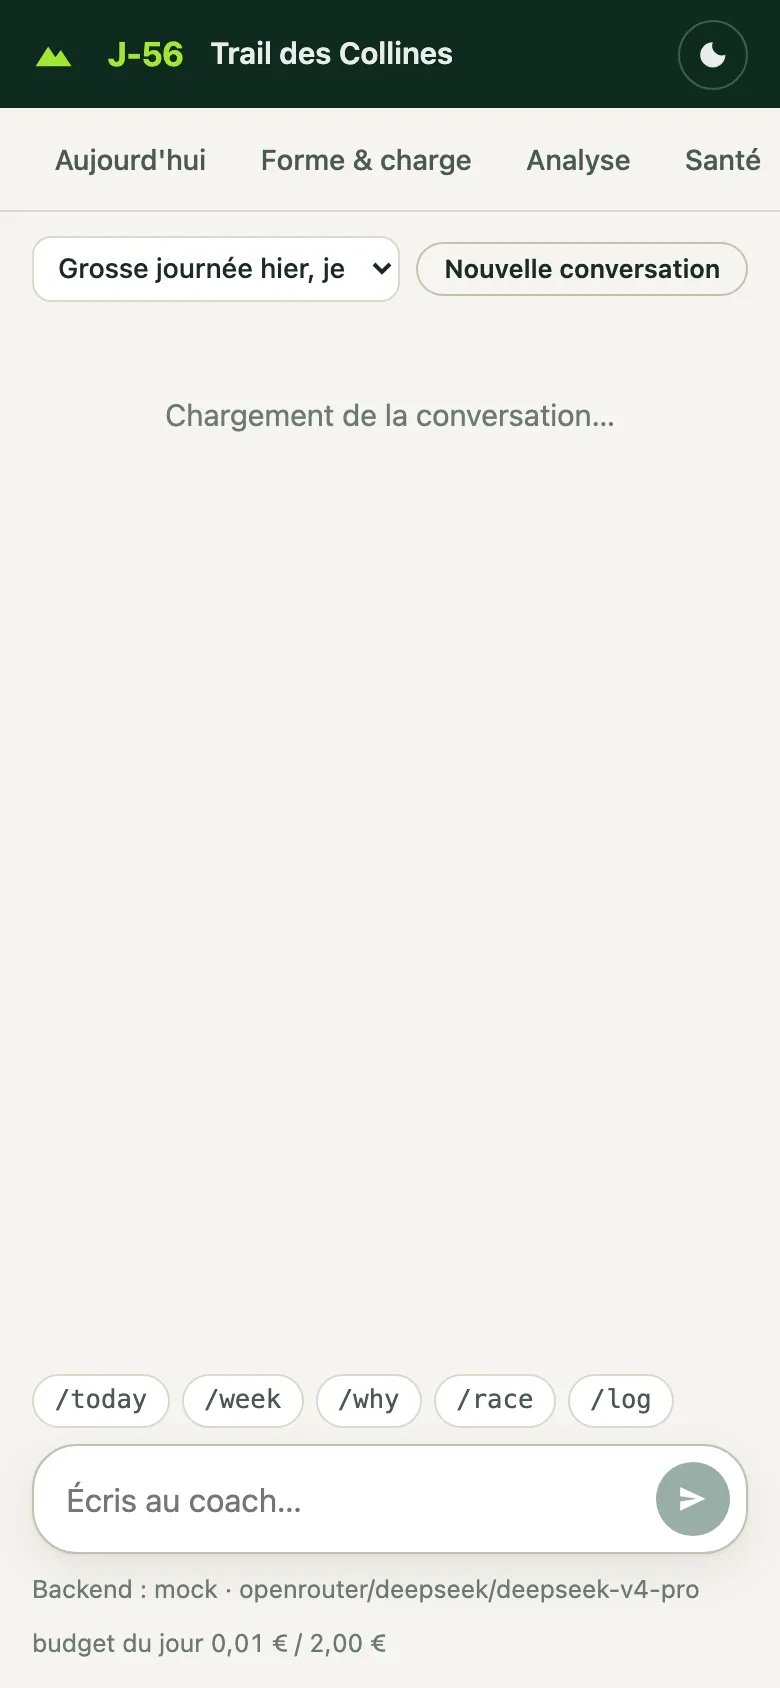
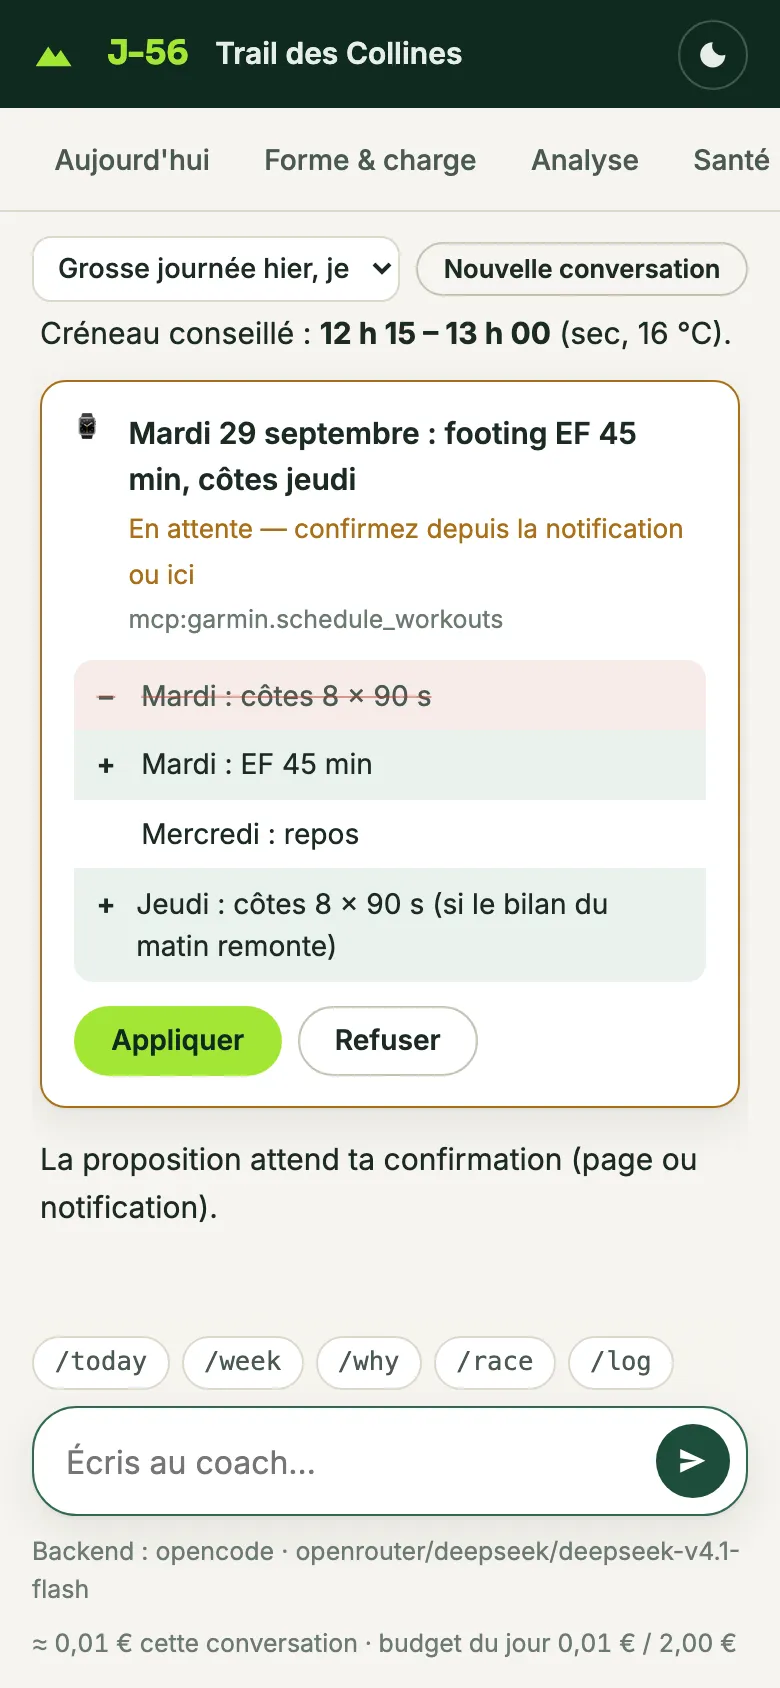
chat : modèle OpenRouter par défaut deepseek/deepseek-v4.1-flash (comparatif de 8 modèles en conditions réelles), coûts mesurés et mois type dans la doc
- docs/dashboard/chat.md : « Quel modèle sur OpenRouter ? » (3 demandes réelles, vérifications
  automatiques, score/coût/durée par modèle) et « Ce que coûte le coach » (mois type : ≈ 0,80 €
  avec DeepSeek v4.1 Flash, ≈ 6 € v4-pro, ≈ 15 € Haiku, ≈ 30 € Sonnet estimé).
- Défaut OpenRouter (install.sh, workspace.toml, backend OpenCode, doc) : v4.1-flash, le plus
  fiable et le moins cher des huit ; captures refaites avec ce modèle.

diff --git a/tests/install/test_llm_chat_ops.py b/tests/install/test_llm_chat_ops.py
@@ -26,7 +26,7 @@ TODAY = date.today().isoformat()
 OPENCODE_SYNC = """\
 [sync]
 runner = "opencode"
-model = "openrouter/deepseek/deepseek-v4-pro"
+model = "openrouter/deepseek/deepseek-v4.1-flash"
 api_key_env = "OPENROUTER_API_KEY"
 {extra}
 [notifications]
@@ -94,7 +94,7 @@ class TestOpencodeRunnerDryRun(InstallAsserts):
                 "env": {"GARMIN_ENABLED_TOOLS": "get_activities,schedule_workouts,get_sleep_data"}}}}))
             proc = sb.script("daily-sync.sh", "--dry-run")
             self.assertSucceeded(proc)
-            self.assertOutputContains(proc, "opencode run --format json --model openrouter/deepseek/deepseek-v4-pro")
+            self.assertOutputContains(proc, "opencode run --format json --model openrouter/deepseek/deepseek-v4.1-flash")
             self.assertOutputContains(proc, f"--dir {sb.repo}")
             self.assertOutputContains(proc, "OPENCODE_CONFIG=")
             # Config : clé par référence, bash refusé, écritures Garmin refusées et retirées.
@@ -146,7 +146,7 @@ class TestOpencodeRunnerDryRun(InstallAsserts):
     def test_base_url_builds_an_openai_compatible_provider(self):
         with Sandbox() as sb:
             _write_config(sb, OPENCODE_SYNC.format(extra='base_url = "https://llm.example.org/v1"\n')
-                          .replace("openrouter/deepseek/deepseek-v4-pro", "openai/gpt-4.1-mini"))
+                          .replace("openrouter/deepseek/deepseek-v4.1-flash", "openai/gpt-4.1-mini"))
             proc = sb.script("daily-sync.sh", "--dry-run")
             self.assertSucceeded(proc)
             self.assertOutputContains(proc, "@ai-sdk/openai-compatible")
@@ -359,7 +359,7 @@ class TestInstallLlm(InstallAsserts):
         with Sandbox() as sb:
             proc = sb.install("--no-auth", "--ide", "claude", "--llm", "openrouter")
             self.assertSucceeded(proc)
-            model = "openrouter/deepseek/deepseek-v4-pro"
+            model = "openrouter/deepseek/deepseek-v4.1-flash"
             self.assertEqual(self._get(sb, "chat", "backend"), "opencode")
             self.assertEqual(self._get(sb, "chat", "model"), model)
             self.assertEqual(self._get(sb, "chat", "api_key_env"), "OPENROUTER_API_KEY")
@@ -388,7 +388,7 @@ class TestInstallLlm(InstallAsserts):
             proc = sb.install("--no-auth", "--ide", "claude", "--llm", "openrouter")
             self.assertSucceeded(proc)
             self.assertOutputContains(proc, "[sync].runner : codex → opencode")
-            self.assertOutputContains(proc, "[sync].model : vieux → openrouter/deepseek/deepseek-v4-pro")
+            self.assertOutputContains(proc, "[sync].model : vieux → openrouter/deepseek/deepseek-v4.1-flash")
             self.assertOutputContains(proc, "Pour revenir")
             self.assertEqual(self._get(sb, "sync", "runner"), "opencode")
 
@@ -405,7 +405,7 @@ class TestInstallLlm(InstallAsserts):
         with Sandbox() as sb:
             self.assertSucceeded(sb.install("--no-auth", "--ide", "claude", "--llm", "openrouter"))
             cfg = sb.repo / "config/workspace.user.toml"
-            cfg.write_text(cfg.read_text().replace('model = "openrouter/deepseek/deepseek-v4-pro"',
+            cfg.write_text(cfg.read_text().replace('model = "openrouter/deepseek/deepseek-v4.1-flash"',
                                                     'model = "openrouter/perso/mon-modele"'))
             proc = sb.install("--no-auth", "--ide", "claude")
             self.assertSucceeded(proc)

diff --git a/tests/data/test_arc_chat_opencode.py b/tests/data/test_arc_chat_opencode.py
@@ -253,7 +253,7 @@ class OpenCodeCase(unittest.TestCase):
         self._env = dict(os.environ)
         os.environ["OPENROUTER_API_KEY"] = "sk-or-secret-test-value"
         self.addCleanup(self._cleanup)
-        self.backend = O.OpenCodeBackend(self.ws, {"model": "openrouter/deepseek/deepseek-v4-pro"})
+        self.backend = O.OpenCodeBackend(self.ws, {"model": "openrouter/deepseek/deepseek-v4.1-flash"})
 
         def fake_spawn(cmd, env, cwd, log_path):
             self.spawned.append({"cmd": cmd, "env": dict(env), "cwd": cwd})
@@ -336,7 +336,7 @@ class TestMapping(unittest.TestCase):
                          "mcp:garmin.schedule_week")
 
     def test_split_model(self):
-        self.assertEqual(O.split_model("openrouter/deepseek/deepseek-v4-pro"), ("openrouter", "deepseek/deepseek-v4-pro"))
+        self.assertEqual(O.split_model("openrouter/deepseek/deepseek-v4.1-flash"), ("openrouter", "deepseek/deepseek-v4.1-flash"))
         with self.assertRaises(BackendError):
             O.split_model("nomodel")
 
@@ -360,8 +360,8 @@ class TestConfigGeneration(OpenCodeCase):
         cfg = json.loads(text)
         self.assertNotIn("sk-or-secret-test-value", text)
         self.assertEqual(cfg["provider"]["openrouter"]["options"]["apiKey"], "{env:OPENROUTER_API_KEY}")
-        self.assertEqual(cfg["model"], "openrouter/deepseek/deepseek-v4-pro")
-        self.assertIn("deepseek/deepseek-v4-pro", cfg["provider"]["openrouter"]["models"])
+        self.assertEqual(cfg["model"], "openrouter/deepseek/deepseek-v4.1-flash")
+        self.assertIn("deepseek/deepseek-v4.1-flash", cfg["provider"]["openrouter"]["models"])
         self.assertEqual(cfg["permission"]["*"], "ask")
         self.assertEqual(cfg["permission"]["question"], "deny")
         self.assertEqual(cfg["mcp"]["garmin"]["command"], ["garmin-mcp", "stdio"])
@@ -417,7 +417,7 @@ class TestTurns(OpenCodeCase):
         self.assertAlmostEqual(usage["cost_eur"], 0.00016 * 0.5, places=6)
         self.assertEqual(h.ctx.backend_state["opencode_session_id"], SID)
         prompt = next(b for m, p, b in self.fake.requests if p.endswith("/prompt_async"))
-        self.assertEqual(prompt["model"], {"providerID": "openrouter", "modelID": "deepseek/deepseek-v4-pro"})
+        self.assertEqual(prompt["model"], {"providerID": "openrouter", "modelID": "deepseek/deepseek-v4.1-flash"})
         self.assertTrue(prompt["system"].startswith(SYSTEM_ADDENDUM))
         self.assertIn("en français", prompt["system"])      # langue explicite (commande seule)
         self.assertEqual(prompt["parts"], [{"type": "text", "text": "salut"}])

diff --git a/scripts/arc_chat_opencode.py b/scripts/arc_chat_opencode.py
@@ -5,7 +5,7 @@ OpenCode est le harnais (agents `.opencode/agents`, skills, MCP, outils fichiers
 ce module est un adaptateur mince : il supervise un `opencode serve` local, lui envoie
 les messages de l'athlète, traduit son flux d'évènements vers le protocole du chat
 et répond à ses demandes de permission après passage par la politique du coach.
-Fournisseur par défaut : OpenRouter (`openrouter/deepseek/deepseek-v4-pro`), ou tout
+Fournisseur par défaut : OpenRouter (`openrouter/deepseek/deepseek-v4.1-flash`), ou tout
 endpoint compatible OpenAI via `[chat].base_url`.
 
 Bibliothèque standard uniquement (urllib, threads, subprocess).
@@ -70,7 +70,7 @@ from arc_chat_tools import (REFUSAL_DENY, display_input, fs_list_input, gate, ma
                             parse_unified_diff, short, summarize_tool, usd_to_eur)
 
 OPENCODE_TESTED_VERSION = "1.18.32"
-DEFAULT_MODEL = "openrouter/deepseek/deepseek-v4-pro"
+DEFAULT_MODEL = "openrouter/deepseek/deepseek-v4.1-flash"
 DEFAULT_API_KEY_ENV = "OPENROUTER_API_KEY"
 
 HEALTH_TIMEOUT_S = 40.0
@@ -144,7 +144,7 @@ def canonical_tool(name: str, tool_input: Optional[dict], mcp_servers: Any = ())
 # ---------------------------------------------------------------------------
 
 def split_model(model: str) -> tuple:
-    """« openrouter/deepseek/deepseek-v4-pro » -> (« openrouter », « deepseek/deepseek-v4-pro »)."""
+    """« openrouter/deepseek/deepseek-v4.1-flash » -> (« openrouter », « deepseek/deepseek-v4.1-flash »)."""
     provider, _, model_id = (model or DEFAULT_MODEL).partition("/")
     if not model_id:
         raise BackendError(f"Modèle OpenCode invalide : {model!r} (attendu « fournisseur/modèle »).")

diff --git a/docs/dashboard/chat.md b/docs/dashboard/chat.md
@@ -66,20 +66,74 @@ Le tableau de bord reste **en lecture seule** et ne voit jamais la clé API : c'
 | | Claude (API Anthropic) | OpenRouter (ou API compatible OpenAI) |
 |---|---|---|
 | Harnais | Claude Agent SDK — le moteur de Claude Code | serveur OpenCode |
-| Modèle par défaut | `claude-sonnet-5-5` | `openrouter/deepseek/deepseek-v4-pro` |
-| Fidélité aux agents/skills | identique à Claude Code | bonne ; dépend du modèle |
+| Modèle par défaut | `claude-sonnet-5-5` | `openrouter/deepseek/deepseek-v4.1-flash` |
+| Fidélité aux agents/skills | identique à Claude Code | bonne ; dépend beaucoup du modèle |
 | Prérequis | `pip install claude-agent-sdk` (Python ≥ 3.10) | binaire `opencode` |
-| Coût indicatif | quelques centimes par échange | moins, selon le modèle |
+| Coût indicatif (mois type, ci-dessous) | ~30 € (Sonnet, estimation) | **< 1 €** (DeepSeek v4.1 Flash, mesuré) |
 
-Pourquoi Sonnet et pas Haiku pour le chat : c'est là que se prennent les décisions délicates
-(garde-fous médicaux, modification du plan, écriture Garmin). Haiku coûte la moitié ; une
-mauvaise décision coûte plus. Haiku 4.5 reste le défaut de la
-[synchronisation automatique](../mobile.md#modeles-par-defaut), tâche répétitive et très cadrée.
+Pourquoi Sonnet et pas Haiku côté Claude : c'est dans le chat que se prennent les décisions
+délicates (garde-fous médicaux, modification du plan, écriture Garmin). Haiku 4.5 reste le
+défaut de la [synchronisation automatique](../mobile.md#modeles-par-defaut), tâche
+répétitive et très cadrée.
 
-!!! note "Modèles bon marché"
+### Quel modèle sur OpenRouter ?
+
+Huit modèles ont été essayés en conditions réelles (workspace d'un athlète, Garmin en lecture
+seule, octobre 2026) sur trois demandes, avec des vérifications automatiques :
+
+- **`/log`** « 2 gels Aptonia + 500 ml au km 15, genou 2/10, RPE 6 » — `arc_log.py` appelé,
+  deux fichiers écrits et valides au contrat, 46 g de glucides tirés du catalogue, incohérence
+  « km 15 » sur une sortie de 11,3 km relevée ;
+- **bilan** « je me sens fatigué, je garde la séance ? » — HRV, FC de repos et readiness
+  consultées, verdict ;
+- **`/week`** — garde-fous lancés, tableau de la semaine.
+
+Plus un critère commun : réponse propre (pas de raisonnement en anglais mêlé à la réponse) et
+tour terminé.
+
+| Modèle | Score | Coût des 3 demandes | Durée moyenne | Verdict |
+|---|---|---|---|---|
+| `deepseek/deepseek-v4.1-flash` | **14/17** | **0,013 €** | 54 s | **défaut** : le plus fiable et le moins cher ; commente parfois son travail en anglais (rangé dans la trace) |
+| `deepseek/deepseek-v4-pro` | 12/17 | 0,10 € | 77 s | solide, plus lent, ~8× plus cher |
+| `minimax/minimax-m2.7` | 12/17 | 0,04 € | 69 s | bon bilan matinal, fichiers `/log` hors contrat |
+| `qwen/qwen3.8-flash` | 12/17 | 0,05 € | 253 s | `/log` bloqué jusqu'au délai maximal |
+| `z-ai/glm-5.3-flash` | 11/17 | 0,04 € | 207 s | idem |
+| `anthropic/claude-haiku-4.5` | 10/17 | 0,21 € | 28 s | français impeccable, mais demande la séance à l'athlète au lieu de la lire dans Garmin |
+| `google/gemini-3.1-flash-lite` | 9/17 | 0,04 € | 15 s | très rapide, même défaut que Haiku, garde-fous de `/week` sautés |
+| `deepseek/deepseek-v4-flash` | 6/17 | — | 364 s | à éviter : délais dépassés, bilan matinal sauté |
+
+Un seul passage par modèle : les écarts de un ou deux points ne sont pas significatifs (le même
+modèle a varié de 3/7 à 5/7 sur `/log` d'un essai à l'autre). Coûts tels que rapportés par
+OpenCode.
+
+!!! warning "Pas `deepseek/deepseek-chat`"
+    C'est l'ancien DeepSeek V3. Essayé avec le chat, il annonçait avoir enregistré un `/log`
+    sans rien écrire, s'arrêtait sur « je reviens avec le bilan » et mélangeait les langues.
+
+!!! note "Changer de modèle"
     Un modèle peu fiable en appel d'outils peut casser le contrat ```` ```arc ````, sauter le
-    bilan matinal ou adoucir un garde-fou. Validez un modèle sur quelques échanges réels avant
-    de lui confier votre plan, et gardez un œil sur la trace des étapes.
+    bilan matinal ou adoucir un garde-fou. Essayez-le d'abord dans le
+    [bac à sable](#essayer-sans-risque), et gardez un œil sur la trace des étapes.
+
+### Ce que coûte le coach
+
+Un mois type pour un athlète : 60 questions (bilan du jour, « je garde ma séance ? »), 12
+`/log`, 4 `/week`, 4 plans de semaine (comptés comme 5 questions chacun) et 60
+synchronisations automatiques (2 par jour, comptées comme un `/log` — le mode `watch` en lance
+moins).
+
+| Modèle | Mois type | Dont synchronisation |
+|---|---|---|
+| `deepseek/deepseek-v4.1-flash` | **≈ 0,80 €** | ≈ 0,45 € |
+| `deepseek/deepseek-v4-pro` | ≈ 6 € | ≈ 1,60 € |
+| `anthropic/claude-haiku-4.5` (via OpenRouter) | ≈ 15 € | ≈ 4,80 € |
+| `claude-sonnet-5-5` (API Anthropic) | ≈ 30 € — estimation | sync sur Haiku 4.5 conseillée |
+
+Estimations à partir des coûts mesurés, à ± 50 % selon la longueur des échanges ; Sonnet n'a
+pas été mesuré (environ deux fois le prix de Haiku par jeton). Les plafonds par défaut — 2 €/jour
+pour le chat, 0,50 €/jour pour la synchronisation, 1 € par tour — laissent une large marge avec
+DeepSeek v4.1 Flash. Fixez aussi une limite de crédit chez OpenRouter : quand elle est atteinte,
+le chat le dit (« Crédit du fournisseur insuffisant (402) ») et s'arrête proprement.
 
 ## Installer
 
@@ -168,7 +222,7 @@ Puis, dans la copie :
    [chat]
    enabled = true
    backend = "opencode"
-   model = "openrouter/deepseek/deepseek-v4-pro"
+   model = "openrouter/deepseek/deepseek-v4.1-flash"
    api_key_env = "OPENROUTER_API_KEY"
    port = 8866
    ```

diff --git a/docs/mobile.md b/docs/mobile.md
@@ -395,8 +395,8 @@ et ne la donne **qu'au process du runner** ; le service du chat la reçoit par
 
 | | OpenRouter | API Anthropic |
 |---|---|---|
-| Chat | `openrouter/deepseek/deepseek-v4-pro` | `claude-sonnet-5-5` |
-| Synchronisation | `openrouter/deepseek/deepseek-v4-pro` | `claude-haiku-4-5` |
+| Chat | `openrouter/deepseek/deepseek-v4.1-flash` | `claude-sonnet-5-5` |
+| Synchronisation | `openrouter/deepseek/deepseek-v4.1-flash` | `claude-haiku-4-5` |
 
 La synchronisation est répétitive et très cadrée (récupérer les dates manquantes, écrire
 les fichiers au contrat, produire le bloc `resume`) : un modèle léger suffit, et
@@ -406,12 +406,11 @@ modèle qui casserait le contrat toutes les nuits doit se voir. Le chat, lui, de
 modèle plus solide ; si un modèle DeepSeek vous déçoit dans la durée (appels d'outils
 longs), passez à `--model` ou à `--llm anthropic`.
 
-!!! warning "Pas `deepseek/deepseek-chat`"
-    C'est l'ancien DeepSeek V3. Essayé avec le chat, il annonçait avoir enregistré un
-    `/log` sans rien écrire, s'arrêtait sur « je reviens avec le bilan » et mélangeait
-    anglais et français. `deepseek/deepseek-v4-pro` a fait le même travail correctement
-    (catalogue produits, fichiers au contrat, question sur le produit ambigu).
-    `deepseek/deepseek-v4-flash`, bien moins cher, n'a pas été essayé.
+!!! note "Pourquoi DeepSeek v4.1 Flash"
+    Huit modèles OpenRouter ont été comparés en conditions réelles : comparatif, coûts
+    mesurés et estimation mensuelle dans
+    [Le chat avec le coach](dashboard/chat.md#quel-modele-sur-openrouter). L'ancien
+    `deepseek/deepseek-chat` (V3) est à éviter : il annonçait des écritures jamais faites.
 
 ### Budget
 

diff --git a/docs/configuration.md b/docs/configuration.md
@@ -319,7 +319,7 @@ pour les changer, sauf `mode`/`times`, voir [Le coach dans la poche](mobile.md))
 | Clé | Effet |
 |---|---|
 | `runner` | `"claude"` (Claude Code, `claude -p`, défaut) \| `"codex"` (`codex exec`) \| `"opencode"` (`opencode run`, OpenRouter ou API compatible OpenAI). |
-| `model` | Requis pour `opencode`, au format `fournisseur/modèle` (ex. `openrouter/deepseek/deepseek-v4-pro`). Optionnel pour `claude` en mode API (passé à `--model`, ex. `claude-haiku-4-5`). |
+| `model` | Requis pour `opencode`, au format `fournisseur/modèle` (ex. `openrouter/deepseek/deepseek-v4.1-flash`). Optionnel pour `claude` en mode API (passé à `--model`, ex. `claude-haiku-4-5`). |
 | `base_url` | Point d'accès d'une API compatible OpenAI autre qu'OpenRouter (runner `opencode`). |
 | `api_key_env` | **Nom** de la variable qui porte la clé, lue dans `~/.config/ai-running-coach/llm.env` (mode 600). Non vide = mode API, facturé au token ; vide (défaut) = abonnement. Jamais la clé elle-même. |
 | `daily_budget_eur` | Plafond de dépense quotidien (défaut `0.5`), appliqué seulement quand le runner rapporte son coût (`opencode`, `claude` en mode API). Atteint : run sauté, une notification par jour. |

diff --git a/deploy/chat/SPEC.md b/deploy/chat/SPEC.md
@@ -41,7 +41,7 @@ your final report.
 [chat]
 enabled = false
 backend = "claude"                 # "claude" | "opencode" | "mock"
-model = "claude-sonnet-5-5"        # opencode: provider/model id, e.g. "openrouter/deepseek/deepseek-v4-pro"
+model = "claude-sonnet-5-5"        # opencode: provider/model id, e.g. "openrouter/deepseek/deepseek-v4.1-flash"
 base_url = ""                      # opencode + OpenAI-compatible endpoint other than OpenRouter
 api_key_env = "ANTHROPIC_API_KEY"  # NAME of the variable in llm.env / environment
 port = 8766                        # chat service, 127.0.0.1 unless listen is set
@@ -71,7 +71,7 @@ daily_budget_eur = 0.5             # enforced only when the runner reports cost
 ```
 
 Default models when `install.sh --llm` writes them: `--llm openrouter` → chat + sync
-`openrouter/deepseek/deepseek-v4-pro` (exact id verified at implementation, keep one
+`openrouter/deepseek/deepseek-v4.1-flash` (exact id verified at implementation, keep one
 constant); `--llm anthropic` → chat `claude-sonnet-5-5`, sync `claude-haiku-4-5`.
 
 ## HTTP API (chat service, all under `/api/chat`)
